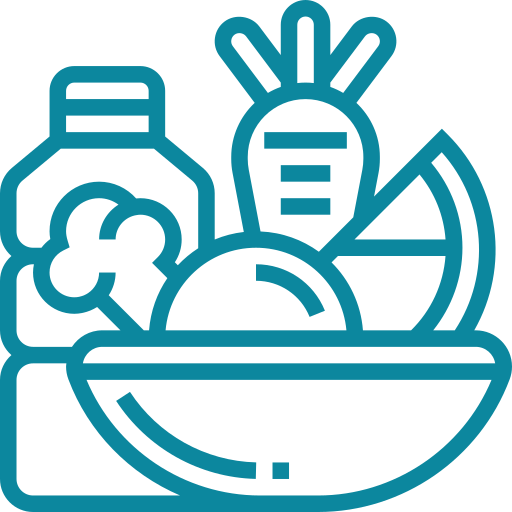
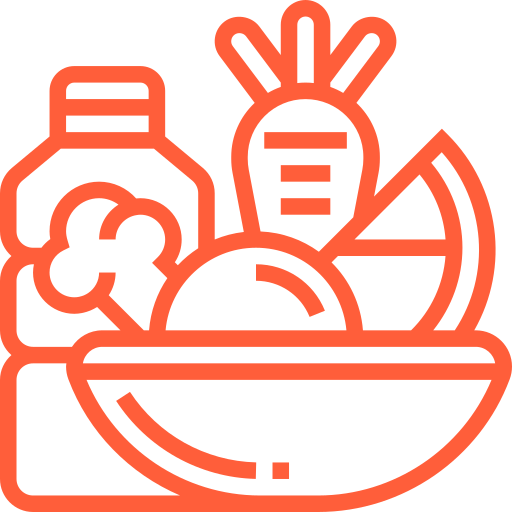
a

diff --git a/index.html b/index.html
@@ -62,7 +62,7 @@
                 <img src="Img/Icones/bandeija.png" alt="">
             </div>
             <h1>
-                Inspirado em chefes
+                Inspirado em Chefes
             </h1>
         </div>
         <div class="cards">
@@ -70,7 +70,7 @@
                 <img src="Img/Icones/bolo.png" alt="">
             </div>
             <h1>
-                teste
+                Doces Saborosos
             </h1>              
         </div>
         <div class="cards">
@@ -78,7 +78,7 @@
                 <img src="Img/Icones/comida_saudavel.png" alt="">
             </div>
             <h1>
-                Cómida saudaveis 
+                Cómida Saudaveis 
             </h1>              
         </div>
         <div class="cards">
@@ -86,7 +86,7 @@
                 <img src="Img/Icones/prato_carne.png" alt="">
             </div>
             <h1>
-                teste
+                Rápidos e Práticos
             </h1>              
         </div>
         <div class="cards">
@@ -100,7 +100,7 @@
     </div>
 </div>
 
-    <div class="sessao-azul">
+    <div class="sessao-laranja">
         <div class="container-dos-cards">
             <div class="cardes-comidas">
                 <img src="IMG/CARDS IMG/CARNE ASSADA.png" alt="" class="card-food-img">
@@ -172,7 +172,6 @@
                 <span class="fa fa-star checked"></span>
                 <h3>não sei</h3>
                 <p>kash jdf kasjdf ajsdk akwsd fkasdjfkas ksajdfkasjd fkasjf kajsfk fasksja dfas skdjfksj</p>
-                <button class="bt-cards">Ver a receita</button>
                 <button class="bt-cards">Ver a receita</button>
             </div>
         </div>

diff --git a/CSS/estilo.css b/CSS/estilo.css
@@ -118,8 +118,8 @@ html,
       max-width: 45%;
   }
 
-  .sessao-azul{
-    background-color: #4D869C;
+  .sessao-laranja{
+    background-color: #FF9B50;
     padding: 3vw 1vw;
   }
 
@@ -148,6 +148,10 @@ html,
 .card img {
     width: 100%;
     border-radius: 5px;
+}
+
+.cards h1{
+  color: #464646;
 }
 
 .container-dos-cards{
@@ -191,5 +195,5 @@ html,
   border-radius: 10px;
   cursor: pointer;
   font-size: 20px;
-  background-color: #7AB2B2;
+  background-color: #E25E3E;
 }
